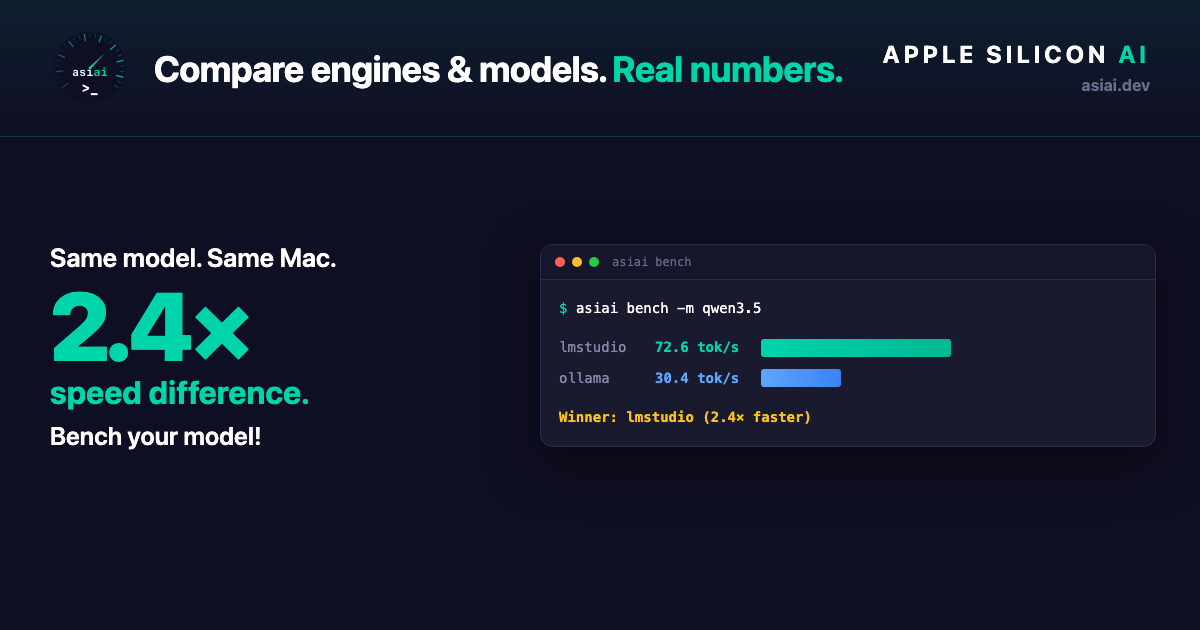
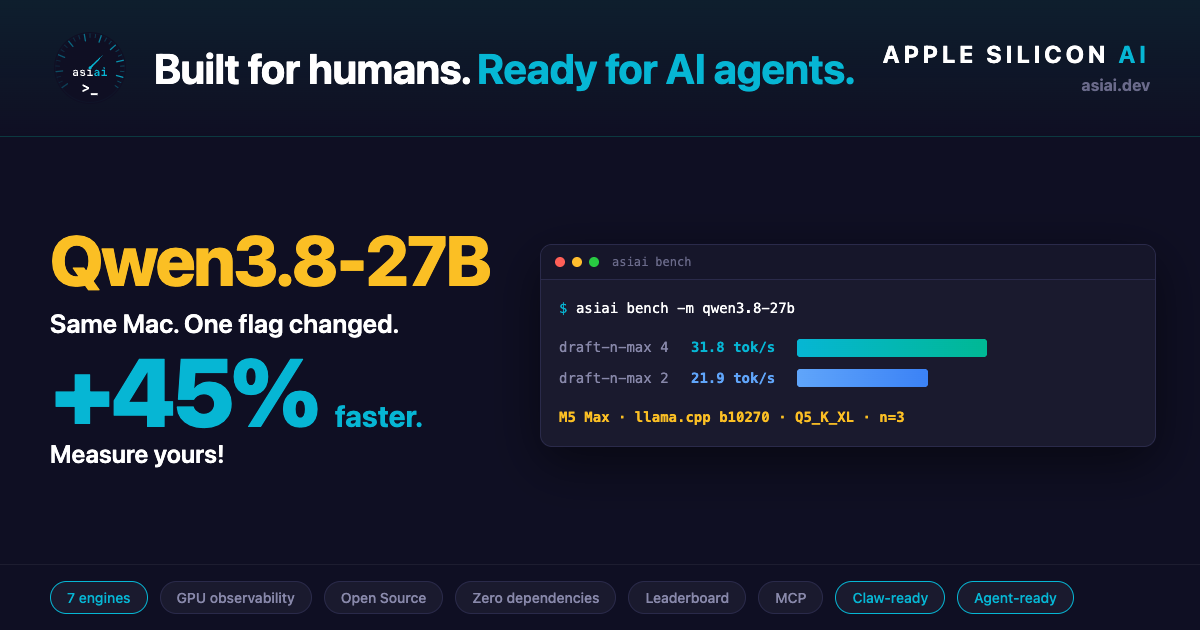
chore(site): OG image shows a measurement, not a winner (#97)
The card advertised "Winner: lmstudio (2.4x faster)" on qwen3.5 — a
cross-engine ranking with no declared conditions, which is exactly what
the project refuses to publish everywhere else. It was also the first
thing anyone saw when sharing asiai.dev.

It now shows one model (Qwen3.8-27B), one machine, and one flag changed:
--spec-draft-n-max 2 vs 4, 21.9 -> 31.8 tok/s, with the conditions
written under the bars (M5 Max, llama.cpp b10270, Q5_K_XL, n=3).

Bars are proportional to throughput. The previous width came from a
percentage of the container, so the slower setting drew the longer bar
and the card read backwards — the same defect just fixed in the bench
cards themselves.

The displayed command is one that actually runs: --spec-draft-n-max is a
llama-server flag, not an asiai one, and a card whose command fails on
paste is worse than a stale card.

og:image, twitter:image and the JSON-LD screenshot are bumped to ?v=4 so
crawlers refetch instead of serving the old card from cache.

diff --git a/docs/assets/og-image.html b/docs/assets/og-image.html
@@ -70,6 +70,18 @@
     padding: 0 30px 10px 50px;
   }
 
+  .model-name {
+    font-size: 70px;
+    font-weight: 800;
+    /* Or plutôt que blanc : le nom du modèle est le sujet de la carte, pas une
+       étiquette. Même teinte que la ligne de conditions du terminal, pour que
+       l'or reste un signal unique et non une deuxième couleur d'accent. */
+    color: #fbbf24;
+    letter-spacing: -2px;
+    line-height: 1.05;
+    margin-bottom: 10px;
+  }
+
   .headline-context {
     font-size: 26px;
     font-weight: 600;
@@ -87,11 +99,13 @@
   }
 
   .headline-label {
-    font-size: 32px;
+    font-size: 30px;
     font-weight: 700;
     color: #06b6d4;
-    line-height: 1.2;
-    margin-bottom: 10px;
+    /* Le parent porte letter-spacing:-4px pour serrer « +45% ». Sans remise à
+       zéro, le mot hérite du crénage négatif et vient toucher le signe %. */
+    letter-spacing: normal;
+    margin-left: 18px;
   }
 
   .headline-cta {
@@ -151,7 +165,7 @@
   .value-green { color: #06b6d4; font-weight: 700; }
   .value-blue { color: #60a5fa; }
   .winner { color: #fbbf24; font-weight: 600; }
-  .engine-name { color: #8888aa; display: inline-block; width: 86px; }
+  .engine-name { color: #8888aa; display: inline-block; width: 122px; }
   .toks { display: inline-block; width: 96px; font-weight: 600; }
 
   .bar-row {
@@ -229,10 +243,10 @@
   <!-- Zone 2: Content -->
   <div class="content">
     <div class="content-left">
-      <div class="headline-context">Same model. Same Mac.</div>
-      <div class="headline-number">2.4×</div>
-      <div class="headline-label">speed difference.</div>
-      <div class="headline-cta">Bench your model!</div>
+      <div class="model-name">Qwen3.8-27B</div>
+      <div class="headline-context">Same Mac. One flag changed.</div>
+      <div class="headline-number">+45%<span class="headline-label">faster.</span></div>
+      <div class="headline-cta">Measure yours!</div>
     </div>
 
     <div class="content-right">
@@ -244,23 +258,23 @@
           <span class="terminal-title">asiai bench</span>
         </div>
         <div class="terminal-body">
-          <div><span class="prompt">$</span> <span class="cmd">asiai bench -m qwen3.5</span></div>
+          <div><span class="prompt">$</span> <span class="cmd">asiai bench -m qwen3.8-27b</span></div>
 
           <div style="margin-top:14px">
             <div class="bar-row">
-              <span class="engine-name">lmstudio</span>
-              <span class="toks value-green">72.6 tok/s</span>
+              <span class="engine-name">draft-n-max 4</span>
+              <span class="toks value-green">31.8 tok/s</span>
               <span class="bar bar-green"></span>
             </div>
             <div class="bar-row">
-              <span class="engine-name">ollama</span>
-              <span class="toks value-blue">30.4 tok/s</span>
-              <span class="bar bar-blue"></span>
+              <span class="engine-name">draft-n-max 2</span>
+              <span class="toks value-blue">21.9 tok/s</span>
+              <span class="bar bar-blue" style="width:131px"></span>
             </div>
           </div>
 
           <div style="margin-top:14px">
-            <span class="winner">Winner: lmstudio (2.4× faster)</span>
+            <span class="winner">M5 Max · llama.cpp b10270 · Q5_K_XL · n=3</span>
           </div>
         </div>
       </div>

diff --git a/overrides/main.html b/overrides/main.html
@@ -22,7 +22,7 @@
   <meta property="og:url" content="{{ page.canonical_url }}">
   <meta property="og:type" content="{% if page.meta and page.meta.type == 'article' %}article{% else %}website{% endif %}">
   <meta property="og:site_name" content="asiai">
-  <meta property="og:image" content="https://asiai.dev/assets/og-image.png?v=3">
+  <meta property="og:image" content="https://asiai.dev/assets/og-image.png?v=4">
 
   <!-- Twitter Card -->
   <meta name="twitter:card" content="summary_large_image">
@@ -36,7 +36,7 @@
   {% else %}
   <meta name="twitter:description" content="Benchmark, monitor, and manage 7 LLM engines on Apple Silicon. Zero dependencies.">
   {% endif %}
-  <meta name="twitter:image" content="https://asiai.dev/assets/og-image.png?v=3">
+  <meta name="twitter:image" content="https://asiai.dev/assets/og-image.png?v=4">
   <meta name="twitter:creator" content="@jmn67">
   <meta name="twitter:site" content="@asiai_dev">
 
@@ -82,7 +82,7 @@
     "downloadUrl": "https://pypi.org/project/asiai/",
     "installUrl": "https://pypi.org/project/asiai/",
     "softwareRequirements": "macOS on Apple Silicon (M1/M2/M3/M4), Python 3.11+",
-    "screenshot": "https://asiai.dev/assets/og-image.png?v=3",
+    "screenshot": "https://asiai.dev/assets/og-image.png?v=4",
     "offers": {
       "@type": "Offer",
       "price": "0",
